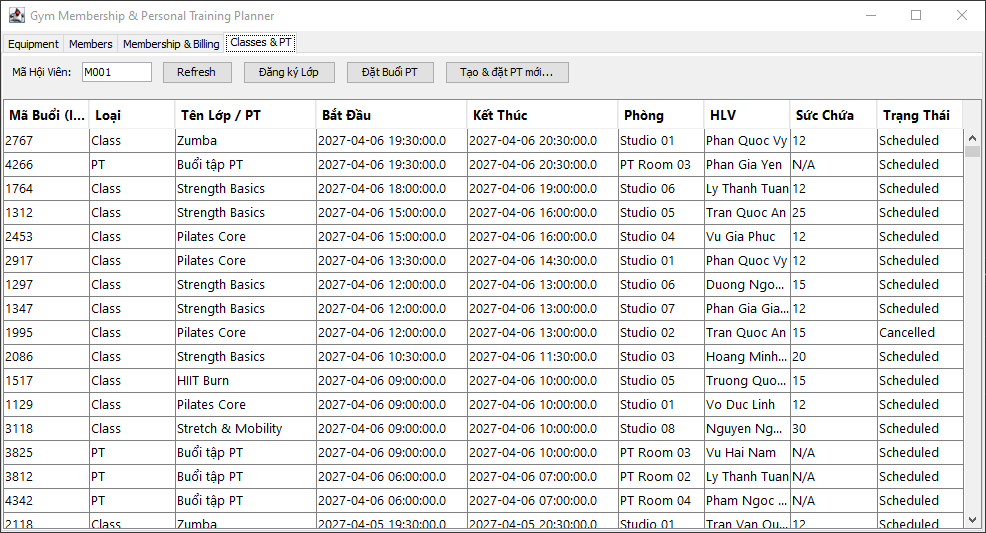
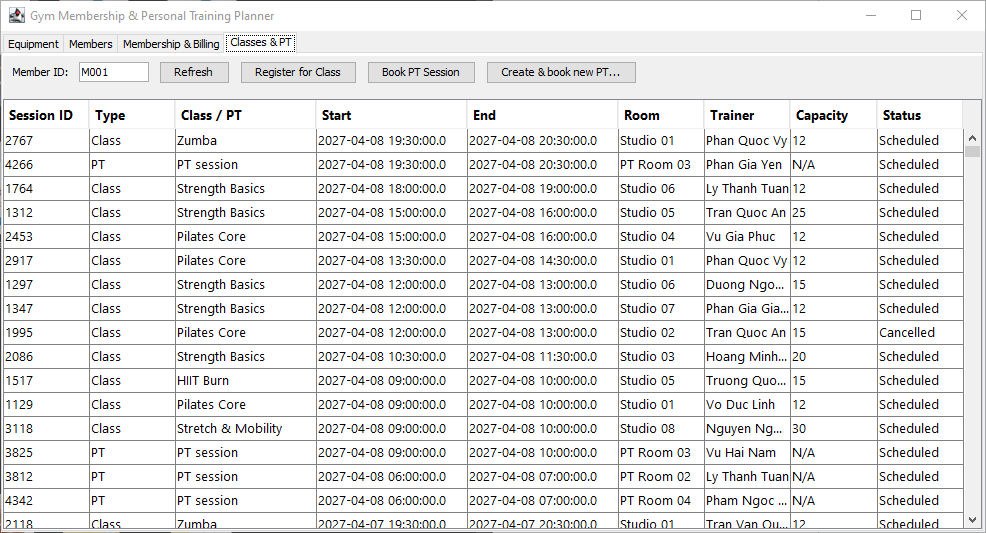
App: translate all remaining Vietnamese UI text to English; retake Classes & PT screenshots

diff --git a/src/main/java/com/gym/ui/ClassPtPanel.java b/src/main/java/com/gym/ui/ClassPtPanel.java
@@ -31,16 +31,16 @@ public class ClassPtPanel extends JPanel {
         service = new ClassPtService();
         setLayout(new BorderLayout(10, 10));
 
-        // 1. Thanh công cụ phía trên
+        // 1. Toolbar
         JPanel topPanel = new JPanel(new FlowLayout(FlowLayout.LEFT, 10, 5));
-        topPanel.add(new JLabel("Mã Hội Viên:"));
+        topPanel.add(new JLabel("Member ID:"));
         txtMemberId = new JTextField("M001", 8);
         topPanel.add(txtMemberId);
 
         btnRefresh = new JButton("Refresh");
-        btnRegisterClass = new JButton("Đăng ký Lớp");
-        btnBookPT = new JButton("Đặt Buổi PT");
-        btnNewPT = new JButton("Tạo & đặt PT mới...");
+        btnRegisterClass = new JButton("Register for Class");
+        btnBookPT = new JButton("Book PT Session");
+        btnNewPT = new JButton("Create & book new PT...");
 
         topPanel.add(btnRefresh);
         topPanel.add(btnRegisterClass);
@@ -48,10 +48,10 @@ public class ClassPtPanel extends JPanel {
         topPanel.add(btnNewPT);
         add(topPanel, BorderLayout.NORTH);
 
-        // 2. Cấu trúc các cột JTable
+        // 2. JTable columns
         String[] columns = {
-            "Mã Buổi (ID)", "Loại", "Tên Lớp / PT", "Bắt Đầu", 
-            "Kết Thúc", "Phòng", "HLV", "Sức Chứa", "Trạng Thái"
+            "Session ID", "Type", "Class / PT", "Start", 
+            "End", "Room", "Trainer", "Capacity", "Status"
         };
         tableModel = new DefaultTableModel(columns, 0) {
             @Override
@@ -60,7 +60,7 @@ public class ClassPtPanel extends JPanel {
             }
         };
 
-        // 3. Khởi tạo JTable và định dạng UI
+        // 3. Create the JTable and style it
         table = new JTable(tableModel);
         table.setFont(new Font("Segoe UI", Font.PLAIN, 13));
         table.getTableHeader().setFont(new Font("Segoe UI", Font.BOLD, 13));
@@ -72,50 +72,50 @@ public class ClassPtPanel extends JPanel {
 
         add(new JScrollPane(table), BorderLayout.CENTER);
 
-        // 4. Xử lý nút bấm
+        // 4. Button handlers
         btnRefresh.addActionListener(e -> loadData());
 
         btnRegisterClass.addActionListener(e -> {
             int row = table.getSelectedRow();
             if (row == -1) {
-                JOptionPane.showMessageDialog(this, "Vui lòng chọn 1 lớp học từ danh sách!", "Thông báo", JOptionPane.WARNING_MESSAGE);
+                JOptionPane.showMessageDialog(this, "Please select a class from the list.", "No class selected", JOptionPane.WARNING_MESSAGE);
                 return;
             }
             String type = table.getValueAt(row, 1).toString();
             if (!"Class".equalsIgnoreCase(type)) {
-                JOptionPane.showMessageDialog(this, "Dòng được chọn là buổi PT, vui lòng chọn nút 'Đặt Buổi PT'!", "Lỗi", JOptionPane.ERROR_MESSAGE);
+                JOptionPane.showMessageDialog(this, "The selected row is a PT session. Use the 'Book PT Session' button.", "Wrong session type", JOptionPane.ERROR_MESSAGE);
                 return;
             }
             String sessionId = table.getValueAt(row, 0).toString();
             String memberId = txtMemberId.getText().trim();
             try {
                 service.registerClass(sessionId, memberId);
-                JOptionPane.showMessageDialog(this, "Đăng ký lớp thành công!");
+                JOptionPane.showMessageDialog(this, "Registered for the class.");
                 loadData();
             } catch (Exception ex) {
-                showError("Không đăng ký được lớp", ex);
+                showError("Could not register for the class", ex);
             }
         });
 
         btnBookPT.addActionListener(e -> {
             int row = table.getSelectedRow();
             if (row == -1) {
-                JOptionPane.showMessageDialog(this, "Vui lòng chọn 1 buổi PT từ danh sách!", "Thông báo", JOptionPane.WARNING_MESSAGE);
+                JOptionPane.showMessageDialog(this, "Please select a PT session from the list.", "No session selected", JOptionPane.WARNING_MESSAGE);
                 return;
             }
             String type = table.getValueAt(row, 1).toString();
             if (!"PT".equalsIgnoreCase(type)) {
-                JOptionPane.showMessageDialog(this, "Dòng được chọn là Lớp học, vui lòng chọn nút 'Đăng ký Lớp'!", "Lỗi", JOptionPane.ERROR_MESSAGE);
+                JOptionPane.showMessageDialog(this, "The selected row is a class. Use the 'Register for Class' button.", "Wrong session type", JOptionPane.ERROR_MESSAGE);
                 return;
             }
             String sessionId = table.getValueAt(row, 0).toString();
             String memberId = txtMemberId.getText().trim();
             try {
                 service.bookPT(sessionId, memberId);
-                JOptionPane.showMessageDialog(this, "Đặt buổi PT thành công!");
+                JOptionPane.showMessageDialog(this, "PT session booked.");
                 loadData();
             } catch (Exception ex) {
-                showError("Không đặt được buổi PT", ex);
+                showError("Could not book the PT session", ex);
             }
         });
 
@@ -135,28 +135,21 @@ public class ClassPtPanel extends JPanel {
                     List<Object[]> list = get();
                     tableModel.setRowCount(0);
                     for (Object[] row : list) {
-                        // Tự động sửa hiển thị phông chữ tiếng Việt cho cột Tên Lớp/PT
-                        if (row[2] != null) {
-                            String className = row[2].toString();
-                            if (className.contains("Bu?") || className.contains("Bu?i") || className.equalsIgnoreCase("Bu?i t?p PT")) {
-                                row[2] = "Buổi tập PT";
-                            }
-                        }
                         tableModel.addRow(row);
                     }
                 } catch (Exception ex) {
-                    showError("Không tải được dữ liệu", ex);
+                    showError("Could not load the schedule", ex);
                 }
             }
         }.execute();
     }
 
-    /** Một lựa chọn trong ô chọn phòng / huấn luyện viên. */
+    /** One choice in the room / trainer drop-down. */
     private record Option(int id, String label) {
         @Override public String toString() { return label; }
     }
 
-    /** Tạo buổi PT mới và đặt cho hội viên (mã nhập ở ô "Mã Hội Viên"), trong một transaction. */
+    /** Create a new PT session and book it for the member typed in "Member ID", in one transaction. */
     private void newPtSession() {
         String memberId = txtMemberId.getText().trim();
         new SwingWorker<List<List<Object[]>>, Void>() {
@@ -168,7 +161,7 @@ public class ClassPtPanel extends JPanel {
                     List<List<Object[]>> lists = get();
                     showNewPtDialog(memberId, toOptions(lists.get(0)), toOptions(lists.get(1)));
                 } catch (Exception ex) {
-                    showError("Không tải được danh sách phòng / HLV", ex);
+                    showError("Could not load rooms / trainers", ex);
                 }
             }
         }.execute();
@@ -187,13 +180,13 @@ public class ClassPtPanel extends JPanel {
         JTextField minutesField = new JTextField("60", 14);
 
         JPanel form = new JPanel(new GridLayout(0, 2, 6, 6));
-        form.add(new JLabel("Hội viên:"));                  form.add(new JLabel(memberId));
-        form.add(new JLabel("Phòng:"));                     form.add(roomBox);
-        form.add(new JLabel("Huấn luyện viên:"));           form.add(trainerBox);
-        form.add(new JLabel("Bắt đầu (yyyy-MM-dd HH:mm):")); form.add(startField);
-        form.add(new JLabel("Thời lượng (phút):"));         form.add(minutesField);
+        form.add(new JLabel("Member:"));                  form.add(new JLabel(memberId));
+        form.add(new JLabel("Room:"));                     form.add(roomBox);
+        form.add(new JLabel("Trainer:"));           form.add(trainerBox);
+        form.add(new JLabel("Start (yyyy-MM-dd HH:mm):")); form.add(startField);
+        form.add(new JLabel("Duration (minutes):"));         form.add(minutesField);
 
-        int ok = JOptionPane.showConfirmDialog(this, form, "Tạo & đặt buổi PT mới",
+        int ok = JOptionPane.showConfirmDialog(this, form, "Create & book new PT session",
             JOptionPane.OK_CANCEL_OPTION, JOptionPane.PLAIN_MESSAGE);
         if (ok != JOptionPane.OK_OPTION) {
             return;
@@ -212,10 +205,10 @@ public class ClassPtPanel extends JPanel {
                 try {
                     int sessionId = get();
                     JOptionPane.showMessageDialog(ClassPtPanel.this,
-                        "Đã tạo và đặt buổi PT mới (mã buổi " + sessionId + ").");
+                        "New PT session created and booked (session ID " + sessionId + ").");
                     loadData();
                 } catch (Exception ex) {
-                    showError("Không đặt được buổi PT mới", ex);
+                    showError("Could not book the new PT session", ex);
                 }
             }
         }.execute();
@@ -237,7 +230,7 @@ public class ClassPtPanel extends JPanel {
         }
     }
 
-    /** Lấy lỗi gốc (SwingWorker bọc trong ExecutionException) và hiện câu dễ hiểu. */
+    /** Unwrap the real error (SwingWorker wraps it in ExecutionException) and show a clear message. */
     private void showError(String title, Exception ex) {
         Throwable cause = ex.getCause() != null ? ex.getCause() : ex;
         JOptionPane.showMessageDialog(this, DbErrorMessages.explain(cause), title, JOptionPane.WARNING_MESSAGE);

diff --git a/src/main/java/com/gym/dao/ClassPtDao.java b/src/main/java/com/gym/dao/ClassPtDao.java
@@ -10,7 +10,7 @@ public class ClassPtDao {
 
     public List<Object[]> findAllSchedule() throws SQLException {
         List<Object[]> list = new ArrayList<>();
-        String sql = "SELECT s.Session_ID, s.Session_Type, ISNULL(c.Class_Name, N'Buổi tập PT') AS Title, " +
+        String sql = "SELECT s.Session_ID, s.Session_Type, ISNULL(c.Class_Name, N'PT session') AS Title, " +
                      "s.Start_Time, s.End_Time, r.Room_Name, st.Full_Name AS Trainer_Name, " +
                      "ISNULL(CAST(c.Max_Capacity AS VARCHAR), 'N/A') AS Capacity, " +
                      "ISNULL(c.Status, 'Scheduled') AS Status " +
@@ -40,7 +40,7 @@ public class ClassPtDao {
         return list;
     }
 
-    // 1. Đăng ký Lớp học
+    // 1. Register for a class
     public void registerClass(String sessionIdStr, String memberIdStr) throws Exception {
         int sessionId = Integer.parseInt(sessionIdStr.trim());
         int memberId = Integer.parseInt(memberIdStr.toUpperCase().replace("M", "").trim());
@@ -54,13 +54,13 @@ public class ClassPtDao {
             stmt.executeUpdate();
         } catch (SQLException ex) {
             if (ex.getErrorCode() == 2627 || ex.getErrorCode() == 2601) {
-                throw new Exception("Hội viên này đã đăng ký lớp học này rồi!");
+                throw new Exception("This member is already registered for this class.");
             }
             throw ex;
         }
     }
 
-    // 2. Đặt Buổi PT
+    // 2. Book a PT session
     public void bookPT(String sessionIdStr, String memberIdStr) throws Exception {
         int sessionId = Integer.parseInt(sessionIdStr.trim());
         int memberId = Integer.parseInt(memberIdStr.toUpperCase().replace("M", "").trim());
@@ -74,7 +74,7 @@ public class ClassPtDao {
             stmt.executeUpdate();
         } catch (SQLException ex) {
             if (ex.getErrorCode() == 2627 || ex.getErrorCode() == 2601) {
-                throw new Exception("Buổi PT này đã được đặt rồi, vui lòng chọn buổi khác!");
+                throw new Exception("This PT session is already booked. Please choose another session.");
             }
             throw ex;
         }

diff --git a/src/main/java/com/gym/service/ClassPtService.java b/src/main/java/com/gym/service/ClassPtService.java
@@ -32,24 +32,24 @@ public class ClassPtService {
     public int bookNewPt(String memberId, Integer roomId, Integer trainerId,
                          LocalDateTime start, int minutes) throws SQLException {
         if (memberId == null || memberId.trim().isEmpty()) {
-            throw new IllegalArgumentException("Hãy nhập mã hội viên.");
+            throw new IllegalArgumentException("Please enter the member ID.");
         }
         if (roomId == null || trainerId == null) {
-            throw new IllegalArgumentException("Hãy chọn phòng và huấn luyện viên.");
+            throw new IllegalArgumentException("Please choose a room and a trainer.");
         }
         if (start == null) {
-            throw new IllegalArgumentException("Hãy nhập giờ bắt đầu dạng yyyy-MM-dd HH:mm, ví dụ 2026-11-20 09:00.");
+            throw new IllegalArgumentException("Please enter the start time as yyyy-MM-dd HH:mm, for example 2026-11-20 09:00.");
         }
         if (minutes <= 0 || minutes > 480) {
-            throw new IllegalArgumentException("Thời lượng phải từ 1 đến 480 phút.");
+            throw new IllegalArgumentException("The duration must be between 1 and 480 minutes.");
         }
         if (start.isBefore(LocalDateTime.now())) {
-            throw new IllegalArgumentException("Giờ bắt đầu phải ở tương lai.");
+            throw new IllegalArgumentException("The start time must be in the future.");
         }
         try {
             return dao.bookNewPt(memberId, roomId, trainerId, start, start.plusMinutes(minutes));
         } catch (NumberFormatException e) {
-            throw new IllegalArgumentException("Mã hội viên không hợp lệ. Hãy nhập số, ví dụ 1 hoặc M001.");
+            throw new IllegalArgumentException("Invalid member ID. Enter a number, for example 1 or M001.");
         }
     }
 }

diff --git a/src/main/java/com/gym/dao/EquipmentDao.java b/src/main/java/com/gym/dao/EquipmentDao.java
@@ -26,9 +26,9 @@ public class EquipmentDao {
     public List<Equipment> findAll() throws SQLException {
         List<Equipment> list = new ArrayList<>();
         try (Connection c = DbConnection.get();
-             Statement st = c.createStatement(); // Tao statement có nghĩa là : "tao 1 câu lệnh SQL để gửi cho SQL Server"
-             ResultSet rs = st.executeQuery(SELECT_ALL)) { // Thực hiện câu lệnh SQL và nhận kết quả trả về (ResultSet)
-            while (rs.next()) { // Di chuyển con trỏ xuống dòng tiếp theo (ban đầu con trỏ đứng trước dòng đầu tiên)
+             Statement st = c.createStatement(); // create a statement object used to send an SQL command to SQL Server
+             ResultSet rs = st.executeQuery(SELECT_ALL)) { // run the SQL command and receive the result (ResultSet)
+            while (rs.next()) { // move the cursor to the next row (it starts before the first row)
                 list.add(new Equipment(
                     rs.getInt("Equipment_ID"),
                     rs.getString("Equipment_Name"),
@@ -139,10 +139,10 @@ public class EquipmentDao {
     public static void main(String[] args) {
         try {
             List<Equipment> all = new EquipmentDao().findAll();
-            System.out.println("So thiet bi: " + all.size());
+            System.out.println("Number of machines: " + all.size());
             all.forEach(System.out::println);
         } catch (SQLException e) {
-            System.out.println("LOI: " + e.getMessage());
+            System.out.println("ERROR: " + e.getMessage());
         }
     }
 }

diff --git a/src/main/java/com/gym/db/ConnectionTest.java b/src/main/java/com/gym/db/ConnectionTest.java
@@ -12,15 +12,15 @@ public class ConnectionTest {
         try (Connection c = DbConnection.get(); 
              Statement st = c.createStatement()) {
 
-            System.out.println("Ket noi thanh cong den: " + c.getCatalog());
+            System.out.println("Connected successfully to: " + c.getCatalog());
 
             try (ResultSet rs = st.executeQuery(
                     "SELECT COUNT(*) FROM INFORMATION_SCHEMA.TABLES WHERE TABLE_TYPE = 'BASE TABLE' AND TABLE_NAME <> 'sysdiagrams'")) {
                 rs.next();
-                System.out.println("So bang trong database: " + rs.getInt(1) + " (ky vong 16)");
+                System.out.println("Number of tables in the database: " + rs.getInt(1) + " (expected 16)");
             }
         } catch (SQLException e) {
-            System.out.println("KET NOI THAT BAI: " + e.getMessage());
+            System.out.println("CONNECTION FAILED: " + e.getMessage());
         }
     }
 }

diff --git a/src/main/java/com/gym/db/DbConnection.java b/src/main/java/com/gym/db/DbConnection.java
@@ -22,12 +22,12 @@ public final class DbConnection {
         try (InputStream in = DbConnection.class.getResourceAsStream("/db.properties")) {
             if (in == null) {
                 throw new IllegalStateException(
-                    "Khong thay db.properties. Hay sao chep db.properties.example thanh db.properties "
-                    + "trong src/main/resources va dien thong tin cua ban.");
+                    "db.properties not found. Copy db.properties.example to db.properties "
+                    + "in src/main/resources and fill in your own connection details.");
             }
             p.load(in);
         } catch (IOException e) {
-            throw new IllegalStateException("Khong doc duoc db.properties", e);
+            throw new IllegalStateException("Cannot read db.properties", e);
         }
         return p;
     }
